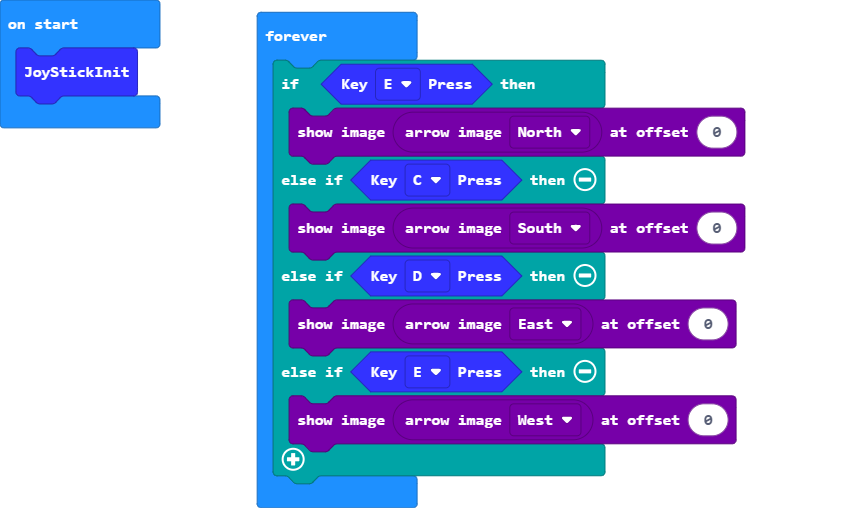
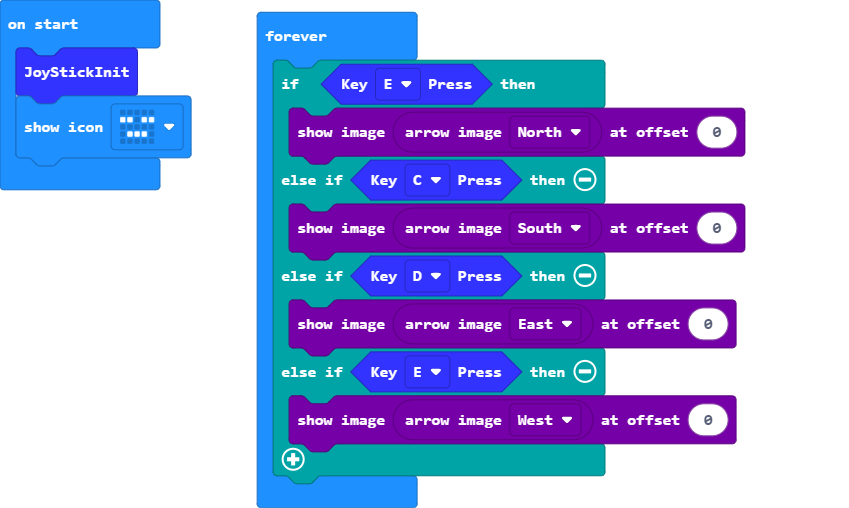
Update main.blocks, main.ts

Changed region(s): [[0.0, 0.1772, 0.245, 0.3839]]

diff --git a/main.ts b/main.ts
@@ -1,4 +1,5 @@
 WSJoyStick.JoyStickInit()
+basic.showIcon(IconNames.Asleep)
 basic.forever(function () {
     if (WSJoyStick.Listen_Key(KEY.E)) {
         images.arrowImage(ArrowNames.North).showImage(0)
